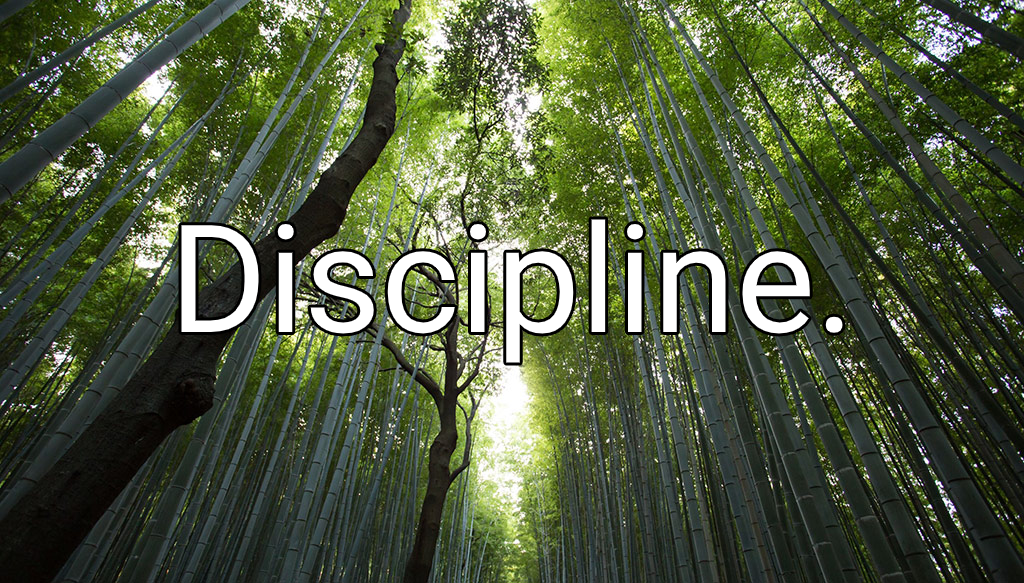
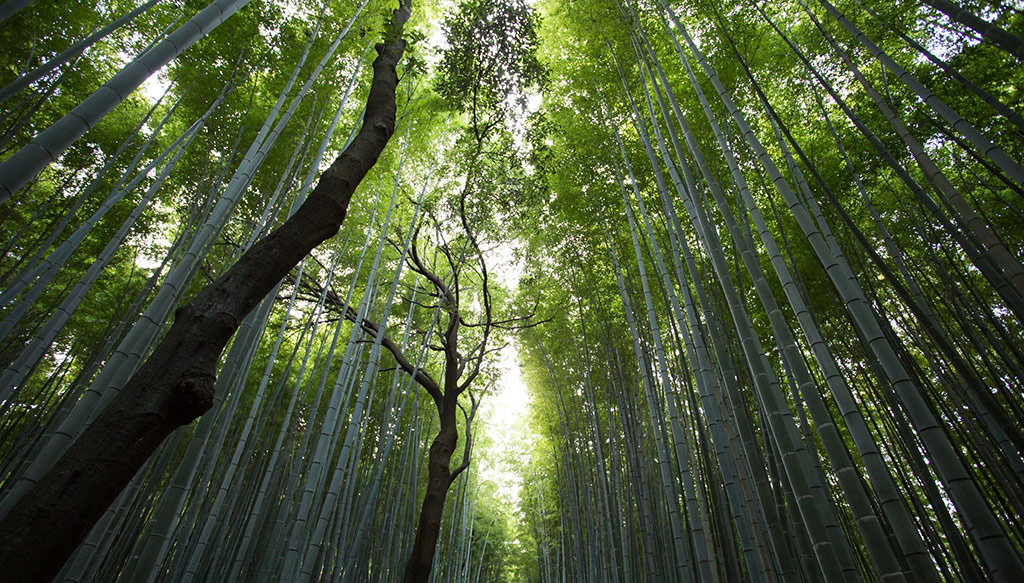
- Replaced image assets with the orignal ones - H2 fontsize increase (subtext in the  homepage imiage) - Contact form label in capital letters - gatsby-config.js, fixed plugin 'gatsby-plugin-web-font-loader' with proper url - removed mail social media url

Changed region(s): [[0.1562, 0.3705, 0.8438, 0.6175]]

diff --git a/src/templates/modal/modal.tsx b/src/templates/modal/modal.tsx
@@ -9,14 +9,15 @@ import YouTube, { Options } from "react-youtube";
 import { IQuotePage } from "@models/IQuotePage";
 import { BLOCKS } from "@contentful/rich-text-types";
 import { documentToReactComponents } from "@contentful/rich-text-react-renderer";
+import { SEO } from "@components/SEO";
 
 export const richTextOptions = {
   renderNode: {
     [BLOCKS.HEADING_1]: ({}, children: ReactNode) => (
       <Text
-        variant="quoteSmall"
+        variant="quoteAuthor"
         color="greenAccent"
-        marginBottom="36px"
+        marginBottom="10px"
       >
         {children}
       </Text>
@@ -52,17 +53,15 @@ const Modal : React.FC<Props> = ({ data } : Props) => {
   useStaticQuery(pageQuery);
 
   const quote: IQuotePage = data.contentfulPage;
-
   const description = quote.description ? quote.description : "";
   const author = quote.author ? quote.author : "";
-  const { image, youtubeVideoId } = quote;
 
-  const videoSlice = youtubeVideoId !== null && <YouTube videoId={youtubeVideoId} opts={youtubeOptions} />;
-  const imageSlice = image !== null && (
+  const videoSlice = quote.youtubeVideoId !== null && <YouTube videoId={quote.youtubeVideoId} opts={youtubeOptions} />;
+  const imageSlice = quote.image !== null && (
   <Box
     width="100%"
     height="500px"
-    backgroundImage={`url(${image.file.url})`}
+    backgroundImage={`url(${quote.image.file.url})`}
     backgroundPosition="center"
     backgroundSize="contain"
     backgroundRepeat="no-repeat"
@@ -72,7 +71,7 @@ const Modal : React.FC<Props> = ({ data } : Props) => {
   return (
     <ModalRoutingContext.Consumer>
       {({ modal, closeTo } : ModalProps) => (
-        <Box padding={50} zIndex={100} color="black">
+        <Box padding={[0, 0, 0, 0, 50, 50, 50]} zIndex={100} color="black">
           {modal ? (
             <Link to={closeTo}>
               Close
@@ -80,6 +79,7 @@ const Modal : React.FC<Props> = ({ data } : Props) => {
           ) : (
             <header />
           )}
+          <SEO title={quote.type} />
 
 
           {imageSlice}
@@ -87,7 +87,7 @@ const Modal : React.FC<Props> = ({ data } : Props) => {
 
           <Box>
             {description && documentToReactComponents(description.json, richTextOptions)}
-            <Text variant="quoteSmall" color={modal ? "white" : "black"} textShadow="">{author && `${author}`}</Text>
+            <Text variant="quoteAuthor" color="black" textShadow="">{author && `${author}`}</Text>
           </Box>
 
 

diff --git a/src/components/FormContact/FormContact.tsx b/src/components/FormContact/FormContact.tsx
@@ -86,7 +86,7 @@ export const FormContact = () => {
               <FormWrapper onSubmit={handleSubmit}>
                 <FormColumn>
                   <FormField
-                    label="FULL NAME"
+                    label="Full name"
                     type="text"
                     name="name"
                     onChange={handleChange}
@@ -95,7 +95,7 @@ export const FormContact = () => {
                   />
 
                   <FormField
-                    label="EMAIL ADDRESS"
+                    label="Email address"
                     type="email"
                     name="email"
                     onChange={handleChange}
@@ -111,7 +111,7 @@ export const FormContact = () => {
                   >
                     <FormField
                       height="100%"
-                      label="MESSAGE"
+                      label="Message"
                       type="textarea"
                       name="message"
                       onChange={handleChange}
@@ -148,7 +148,7 @@ export const FormContact = () => {
 
               <Text
                 variant="h3"
-                color="pink"
+                color="greenAccent"
                 fontSize="16px"
                 lineHeight="30px"
               >

diff --git a/src/components/Text/text.styles.tsx b/src/components/Text/text.styles.tsx
@@ -62,16 +62,16 @@ export const TextComponent: React.FC<TextProps> = styled.span<TextProps>`
         fontWeight: "normal",
         fontSize: ["0px", "20px", "20px", "28px", "28px", "28px", "28px"],
         lineHeight: ["0px", "20px", "20px", "28px", "28px", "28px", "28px"],
-        textShadow: "1px 0 0 #000, 0 -1px 0 #000, 0 1px 0 #000, -1px 0 0 #000",
+        // textShadow: "1px 0 0 #000, 0 -1px 0 #000, 0 1px 0 #000, -1px 0 0 #000",
         color: "white"
       },
-      quoteSmall: {
+      quoteAuthor: {
         display: "block",
         fontFamily: "Helvetica",
         fontWeight: "normal",
-        fontSize: ["0px", "10px", "10px", "25px", "28px", "28px", "28px"],
-        lineHeight: ["0px", "10px", "10px", "25px", "28px", "28px", "28px"],
-        textShadow: "1px 0 0 #000, 0 -1px 0 #000, 0 1px 0 #000, -1px 0 0 #000",
+        fontSize: ["0px", "20px", "20px", "25px", "28px", "28px", "28px"],
+        lineHeight: ["0px", "20px", "20px", "25px", "28px", "28px", "28px"],
+        // textShadow: "1px 0 0 #000, 0 -1px 0 #000, 0 1px 0 #000, -1px 0 0 #000",
         color: "white"
       }
     }

diff --git a/src/pages/index.tsx b/src/pages/index.tsx
@@ -3,8 +3,8 @@ import Gallery from "@components/Gallery";
 
 import Layout from "@components/Layout/Layout";
 
-import workout from "@assets/images/fulls/01.jpg";
-import workoutThumb from "@assets/images/thumbs/01.jpg";
+import workout from "@assets/images/fulls/workout.jpg";
+import workoutThumb from "@assets/images/thumbs/workoutThumb.jpg";
 
 import discipline from "@assets/images/fulls/discipline.jpg";
 import disciplineThumb from "@assets/images/thumbs/disciplineThumb.jpg";

diff --git a/src/components/Footer/Footer.tsx b/src/components/Footer/Footer.tsx
@@ -32,7 +32,7 @@ const Footer:React.FC<Props> = ({ onClose, isVisible }: Props) => (
               const { icon, name, url } = social;
               return (
                 <li key={url}>
-                  <a href={url} style={{ zoom: 2 }}>
+                  <a href={url} style={{ zoom: 10 }}>
                     <div className={`icon ${icon}`}>
                       <span className="label">{name}</span>
                     </div>

diff --git a/src/components/SEO/SEO.tsx b/src/components/SEO/SEO.tsx
@@ -25,7 +25,7 @@ export const SEO: React.FC<SEOProps> = ({
   const { defaultSEO } = i18n[locale === undefined ? "en-US" : locale];
 
   const metaData = {
-    title: title || defaultSEO.title,
+    title: defaultSEO.title + (title ? ` - ${title}` : ""),
     titleAlt: titleAlt || defaultSEO.titleAlt,
     description: description || defaultSEO.description,
     ogLang: defaultSEO.ogLang,

diff --git a/src/assets/sass/layout/_main.scss b/src/assets/sass/layout/_main.scss
@@ -75,12 +75,13 @@
 
     > h2 {
       @include vendor('pointer-events', 'none');
-      bottom: (1.5em / 0.8);
-      font-size: 0.8em;
-      left: (1.75em / 0.8);
+      bottom: (30px / 0.8);
+      font-size: 30px;
+      left: (30px / 0.8);
       margin: 0;
       position: absolute;
       z-index: 1;
+
     }
 
     > p {

diff --git a/config.js b/config.js
@@ -16,11 +16,6 @@ module.exports = {
       icon: "fab fa-github",
       name: "Github",
       url: "https://github.com/laurentkvb",
-    },
-    {
-      icon: "fab far fa-envelope",
-      name: "Email",
-      url: "mailto:lkvb90@gmail.com",
-    },
+    }
   ],
 };

diff --git a/src/components/FormField/form-field.styles.ts b/src/components/FormField/form-field.styles.ts
@@ -26,6 +26,7 @@ export const Label = styled(animated.label)`
   padding: 0 10px;
   font-size: 14px;
   z-index: 1;
+  margin-top: 5px;
   display: flex;
   align-items: center;
   // background-color: ${({ theme }) => `${theme.colors.blackTemplate}`};

diff --git a/gatsby-config.js b/gatsby-config.js
@@ -17,7 +17,7 @@ module.exports = {
       options: {
         custom: {
           families: ["Roboto, sans-serif"],
-          urls: ["/fonts/index.css"],
+          urls: ["fonts/index.css"],
         },
       },
     },
